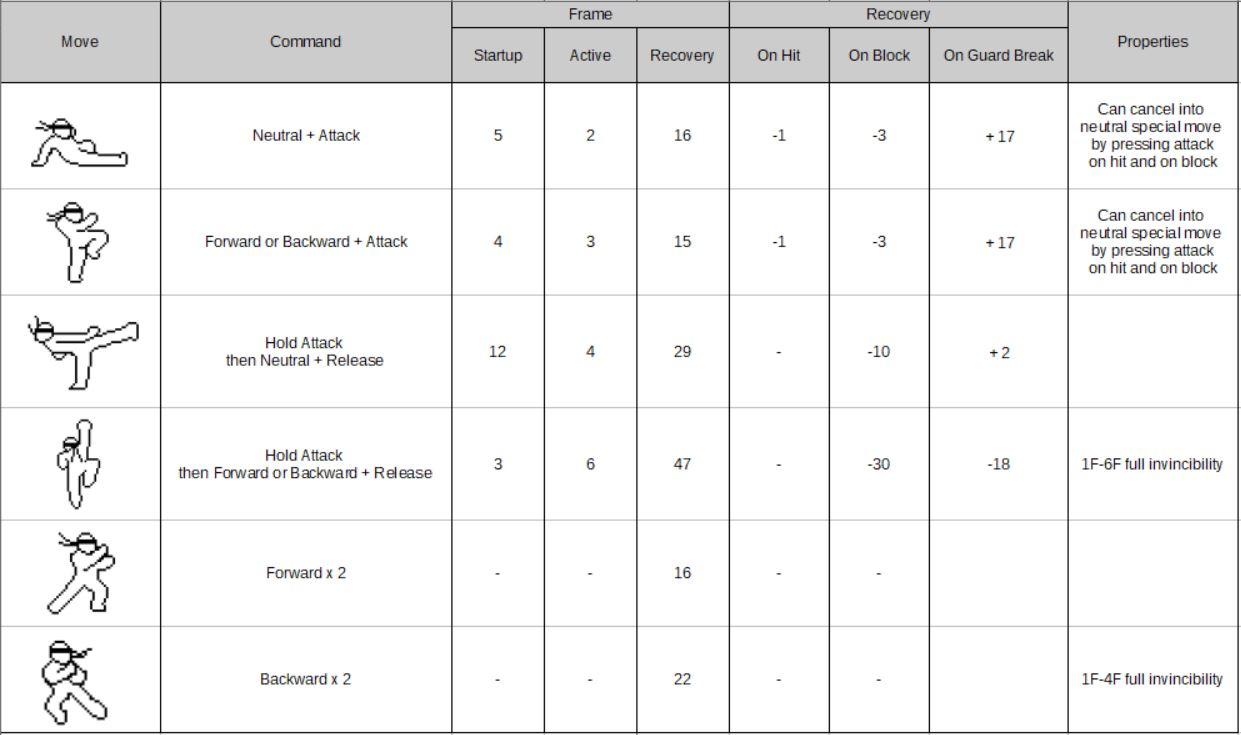
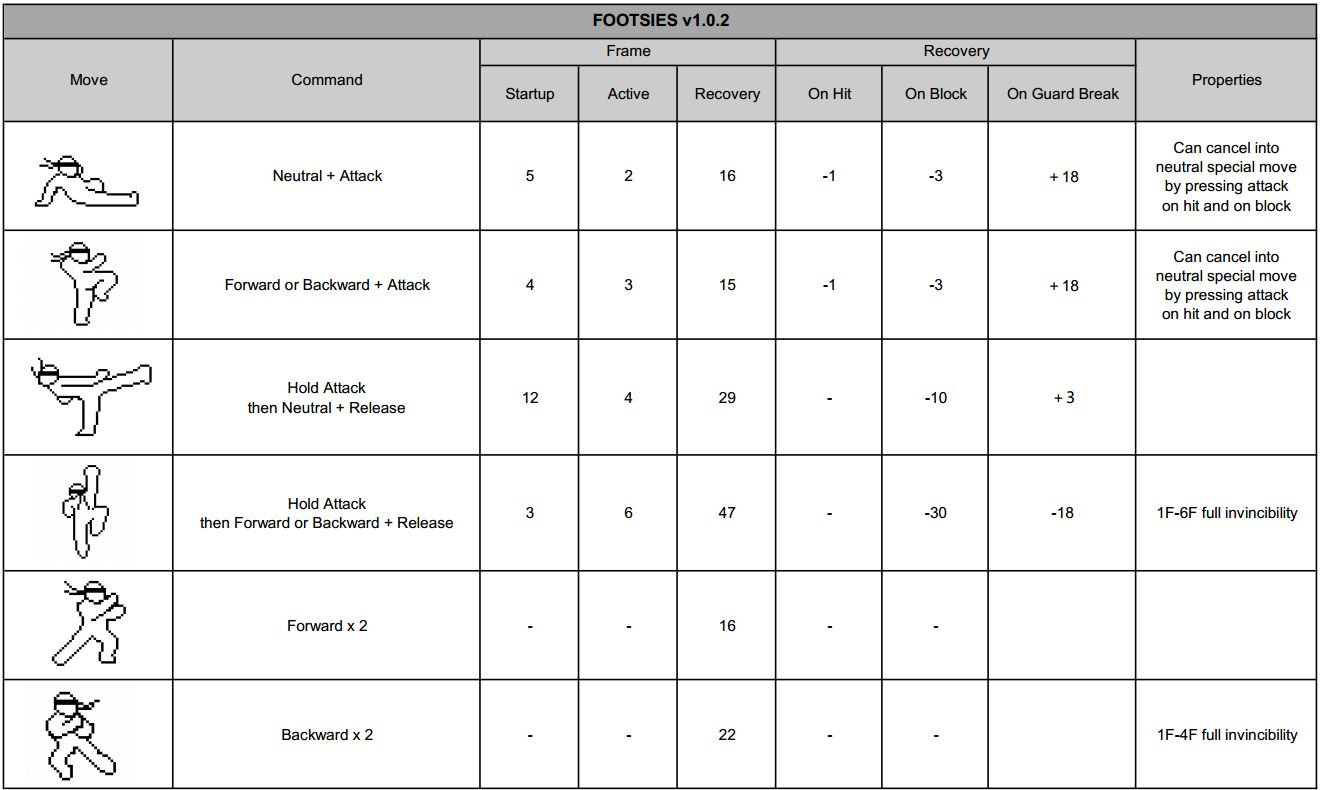
v1.0.2 update

diff --git a/footsies.md b/footsies.md
@@ -26,7 +26,20 @@ we actually had a lot of fun! So, I hope that everyone try this game and have so
 
 <h3>Download</h3> 
 
-<b><u><a href="https://github.com/hifight/Footsies/releases/download/1.0.1/FOOTSIES_v1_0_1.zip" download>FOOTSIES v1.0.1</a></u></b>
+
+<b><u><a href="https://github.com/hifight/Footsies/releases/download/1.0.2/FOOTSIES_v1_0_2.zip" download>FOOTSIES v1.0.2</a></u></b>
+v1.0.2
+- Storing input before round start so that player can hold an attack and use special move right away (and removed round start normal attack when holding the button)
+- Increased guard break recovery frame by 1
+
+<u><a href="https://github.com/hifight/Footsies/releases/download/1.0.1/FOOTSIES_v1_0_1.zip" download>FOOTSIES v1.0.1</a></u>
+v1.0.1
+- Add XInput stick support (v1.0.0 only supports d-pad)
+- Reduced KO hit stop time from 3 seconds to 2 seconds
+- Made the post KO screen skip-able with attack button
+- Expand forward/backward normal attack (Knee) hitbox downward so that it can whiff punish neutral normal attack (Kick)
+- Fix main menu bug where user cannot navigate menu with keyboard/controller anymore after clicking empty space
+- Fix main menu bug where mouse click does not select the menu that it is over after navigating with keyboard/controller
 
 <u><a href="https://github.com/hifight/Footsies/releases/download/1.0.0/FOOTSIES_20180711.zip" download>FOOTSIES v1.0.0</a></u>
 
